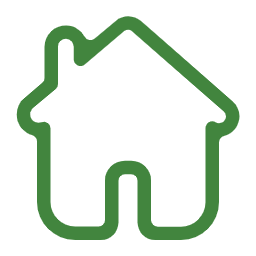
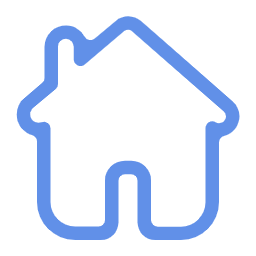
添加关于我页面

Changed region(s): [[0.0625, 0.0625, 0.9375, 0.9375]]

diff --git a/src/pages/about/index.vue b/src/pages/about/index.vue
@@ -1,22 +1,77 @@
 <template>
-    <text>Hello Vue 3!</text>
-    <button @click="inc">Clicked {{ count }} times.</button>
+  <view class="about">
+    <at-activity-indicator
+      v-if="loading"
+      :size="64"
+      mode="center"
+    ></at-activity-indicator>
+    <view class="about" v-if="!loading">
+      <view class="me list-item" v-if="user">
+        <at-avatar circle :image="user.avatarUrl"></at-avatar>
+        <view class="nick-name">{{ user.nickName }}</view>
+        <at-button type="secondary" @click="logout" class="logout" size="small">
+          退出登录
+        </at-button>
+      </view>
+      <view class="list-item" v-if="!user">
+        <button
+          type="primary"
+          class="login-btn"
+          open-type="getUserInfo"
+          @getuserinfo="onGotUserInfo"
+        >
+          微信登录
+        </button>
+      </view>
+    </view>
+  </view>
 </template>
 
 <script>
-    import { ref } from 'vue'
+import { ref, onMounted } from "vue";
+import Taro, { Config } from "@tarojs/taro";
+import "./index.scss";
 
-    export default {
-        setup() {
-            const count = ref(0)
-            const inc = () => {
-                count.value++
-            }
+export default {
+  setup() {
+    const user = ref();
+    const loading = ref(true);
 
-            return {
-                count,
-                inc
-            }
-        }
-    }
+    onMounted(() => {
+      getStorageUser();
+    });
+
+    const getStorageUser = () => {
+      loading.value = true;
+      Taro.getStorage({ key: "user" })
+        .then((res) => {
+          user.value = res.data;
+          loading.value = false;
+        })
+        .catch(() => {
+          user.value = null;
+          loading.value = false;
+        });
+    };
+
+    const logout = () => {
+      Taro.clearStorage();
+      getStorageUser();
+    };
+
+    const onGotUserInfo = (res) => {
+      if (res.detail.userInfo) {
+        Taro.setStorage({ key: "user", data: res.detail.userInfo });
+        getStorageUser();
+      }
+    };
+
+    return {
+      user,
+      loading,
+      logout,
+      onGotUserInfo,
+    };
+  },
+};
 </script>

diff --git a/src/app.ts b/src/app.ts
@@ -12,6 +12,7 @@ import {
   AtListItem,
   AtMessage,
   AtCheckbox,
+  AtAvatar,
 } from "taro-ui-vue3";
 import Taro from "@tarojs/taro";
 import "./app.scss";
@@ -68,5 +69,6 @@ App.component('AtList', AtList);
 App.component('AtListItem', AtListItem);
 App.component("AtMessage", AtMessage);
 App.component("AtCheckbox", AtCheckbox);
+App.component("AtAvatar", AtAvatar);
 
 export default App;

diff --git a/src/app.config.ts b/src/app.config.ts
@@ -11,7 +11,7 @@ export default {
   },
   tabBar: {
     color: '#444444',
-    selectedColor: '#42853e',
+    selectedColor: '#6190E8',
     backgroundColor: '#ffffff',
     list: [
       {

diff --git a/src/pages/about/index.scss b/src/pages/about/index.scss
@@ -25,4 +25,8 @@
   .nick-name {
     margin: 15px 0;
   }
+
+  .login-btn {
+    background-color: #6190E8;
+  }
 }
